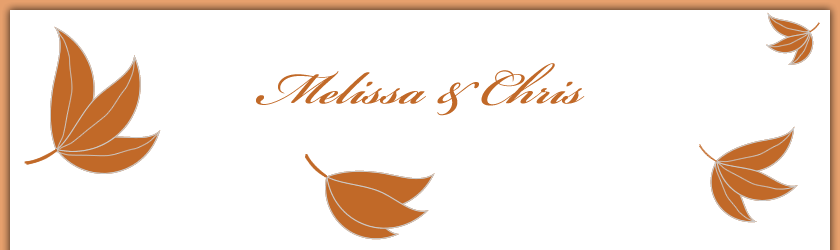
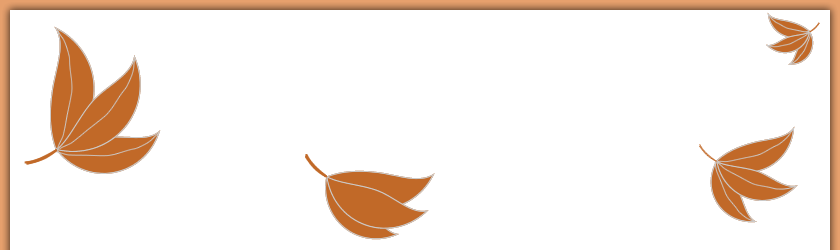
moved bride and groom names to html with embedded font

Changed region(s): [[0.2786, 0.28, 0.7119, 0.476], [0.65, 0.252, 0.681, 0.28], [0.4333, 0.28, 0.4643, 0.308]]

diff --git a/public/stylesheets/sass/application.sass b/public/stylesheets/sass/application.sass
@@ -47,6 +47,21 @@ img.bg
   :top 0
   :left 0
 
+// embedded font for the couple's names
+.names
+  :background #ffffff url('/images/header.png') no-repeat top
+  :height 190px
+  :text-align center
+  :padding-top 60px
+  :font
+    :family BickhamScriptProSemibold
+    :size 60px
+  
+@font-face
+  :font-family 'BickhamScriptProSemibold'
+  :src url('fonts/BickhamScriptPro-Semibold.eot')
+  :src local('Bickham Script Pro Semibold'), local('BickhamScriptPro-Semibold'), url('fonts/BickhamScriptPro-Semibold.woff') format('woff'), url('fonts/BickhamScriptPro-Semibold.otf') format('opentype'), url('fonts/BickhamScriptPro-Semibold.svg#BickhamScriptPro-Semibold') format('svg')
+
 #container
   // position relative so content will show on top of background
   :position relative

diff --git a/public/stylesheets/application.css b/public/stylesheets/application.css
@@ -35,6 +35,19 @@ img.bg {
   top: 0;
   left: 0; }
 
+.names {
+  background: #ffffff url('/images/header.png') no-repeat top;
+  height: 190px;
+  text-align: center;
+  padding-top: 60px;
+  font-family: BickhamScriptProSemibold;
+  font-size: 60px; }
+
+@font-face {
+  font-family: 'BickhamScriptProSemibold';
+  src: url('fonts/BickhamScriptPro-Semibold.eot');
+  src: local('Bickham Script Pro Semibold'), local('BickhamScriptPro-Semibold'), url('fonts/BickhamScriptPro-Semibold.woff') format('woff'), url('fonts/BickhamScriptPro-Semibold.otf') format('opentype'), url('fonts/BickhamScriptPro-Semibold.svg#BickhamScriptPro-Semibold') format('svg'); }
+
 #container {
   position: relative;
   width: 840px;
